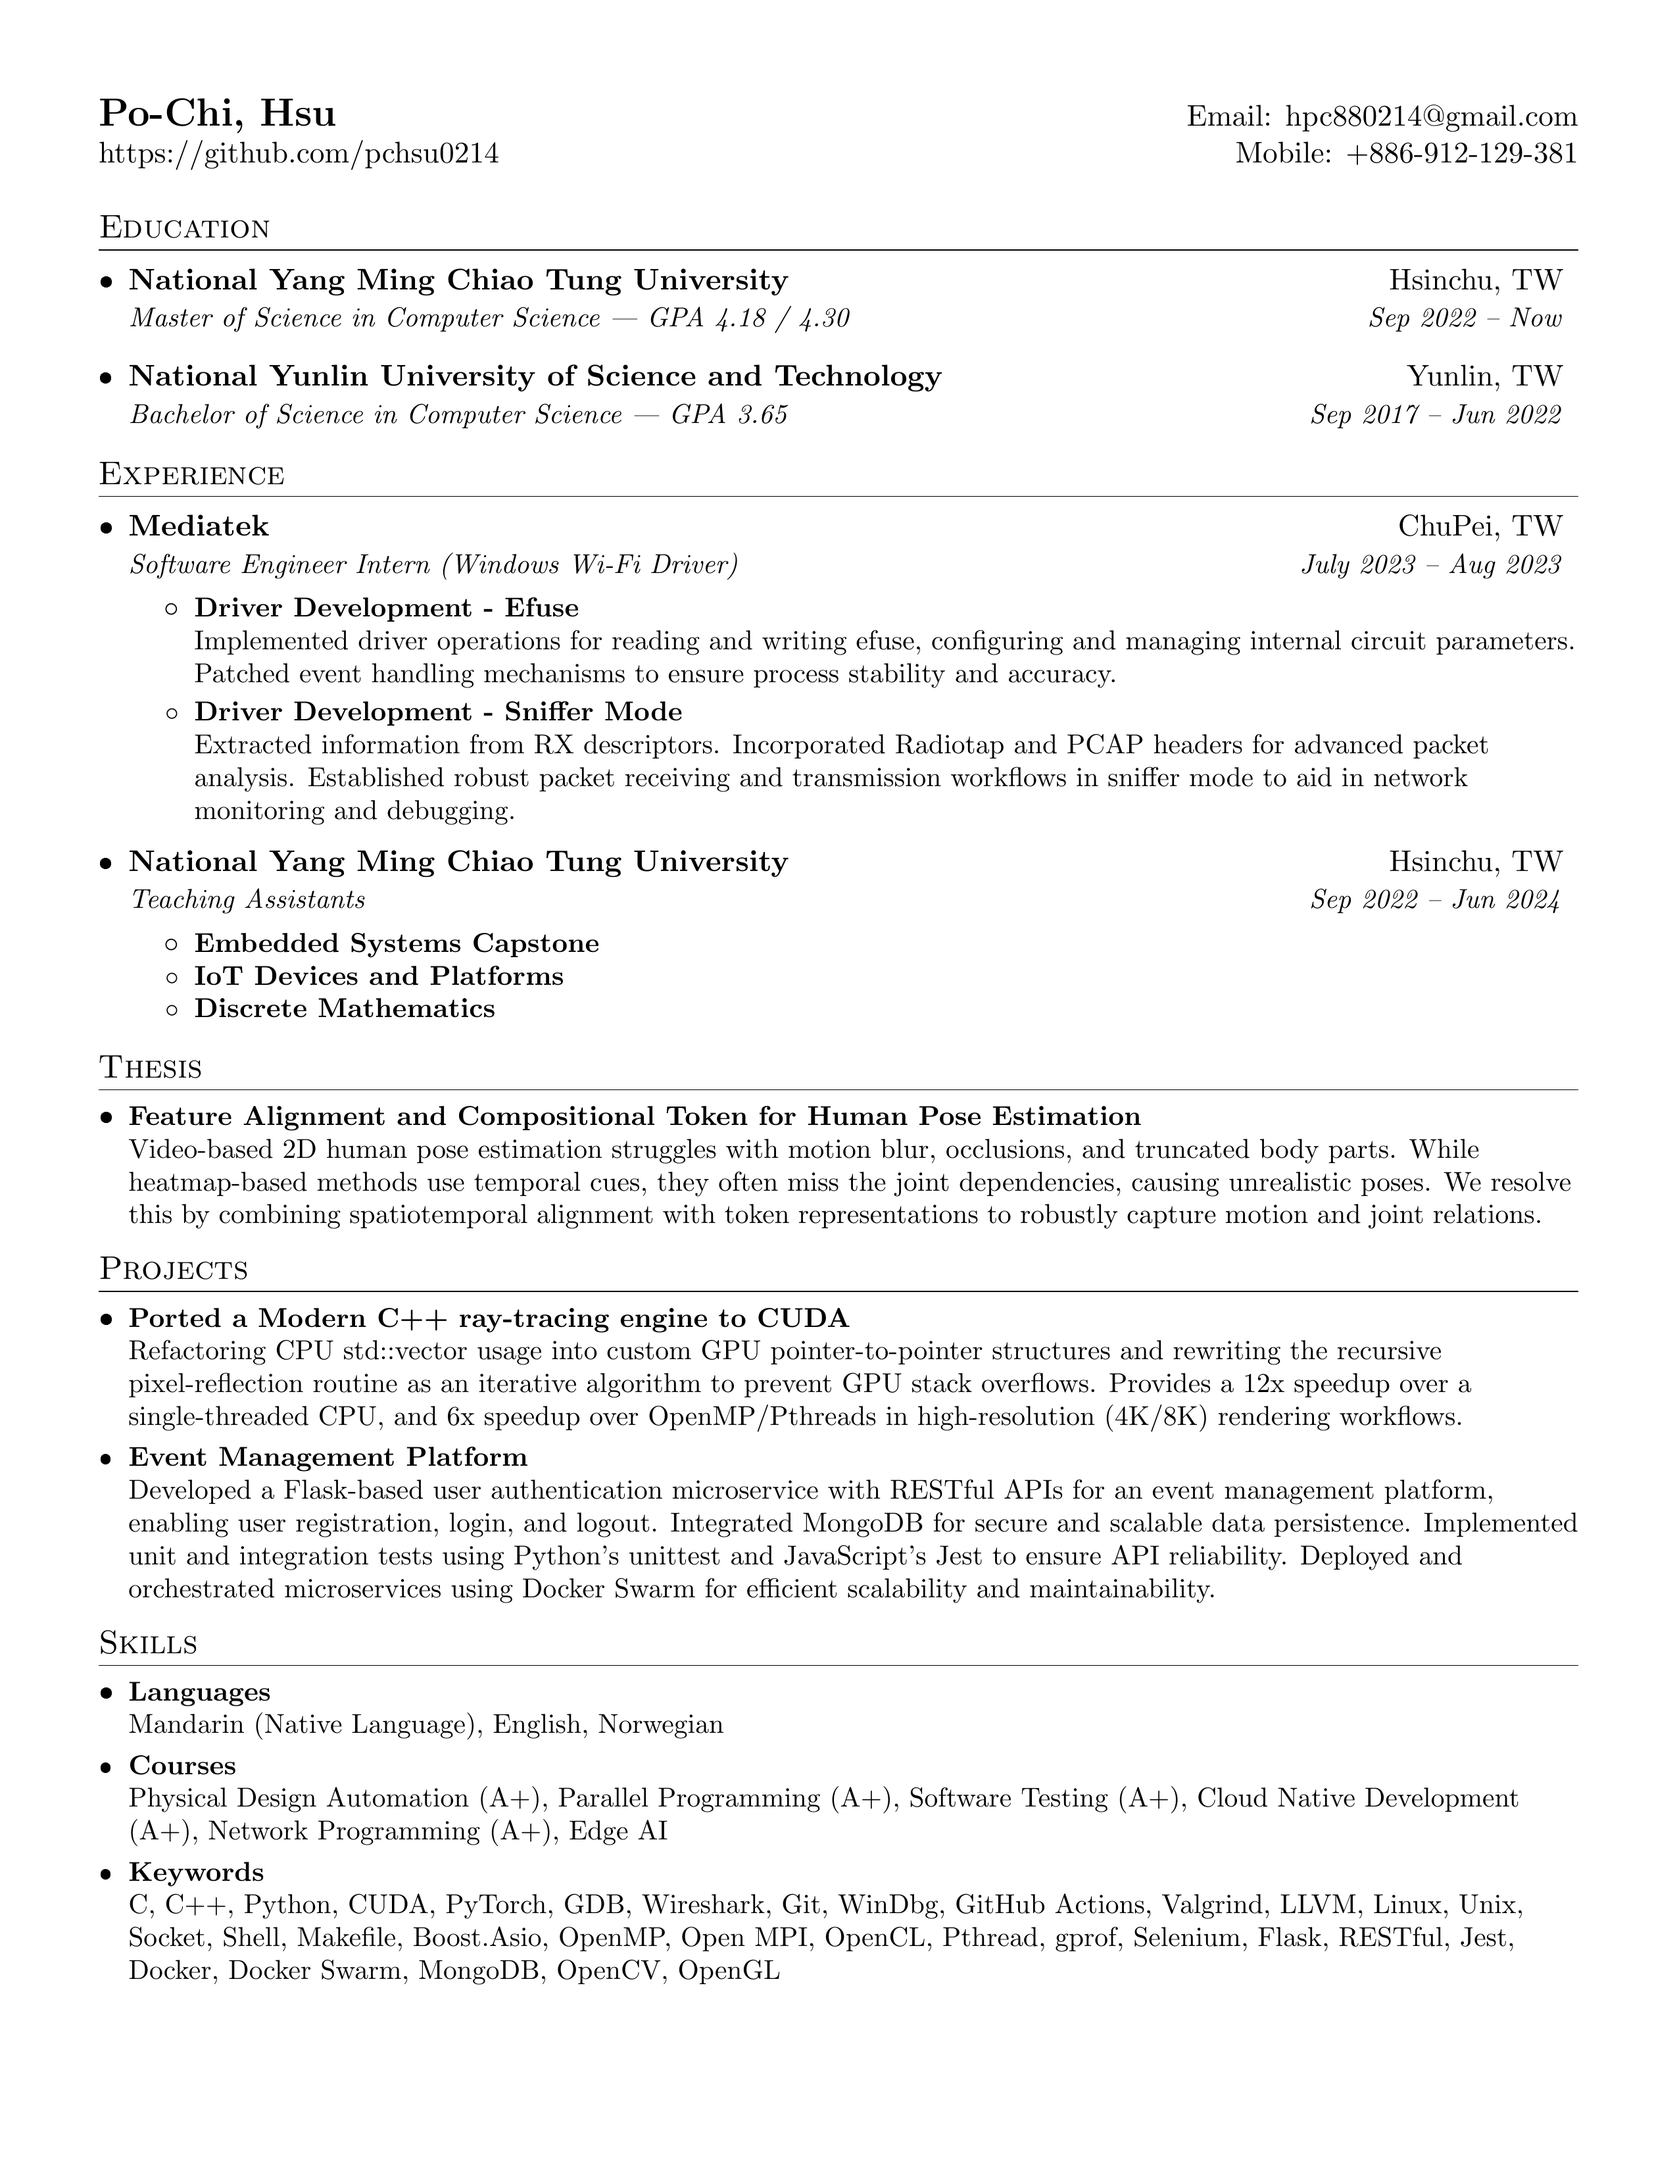
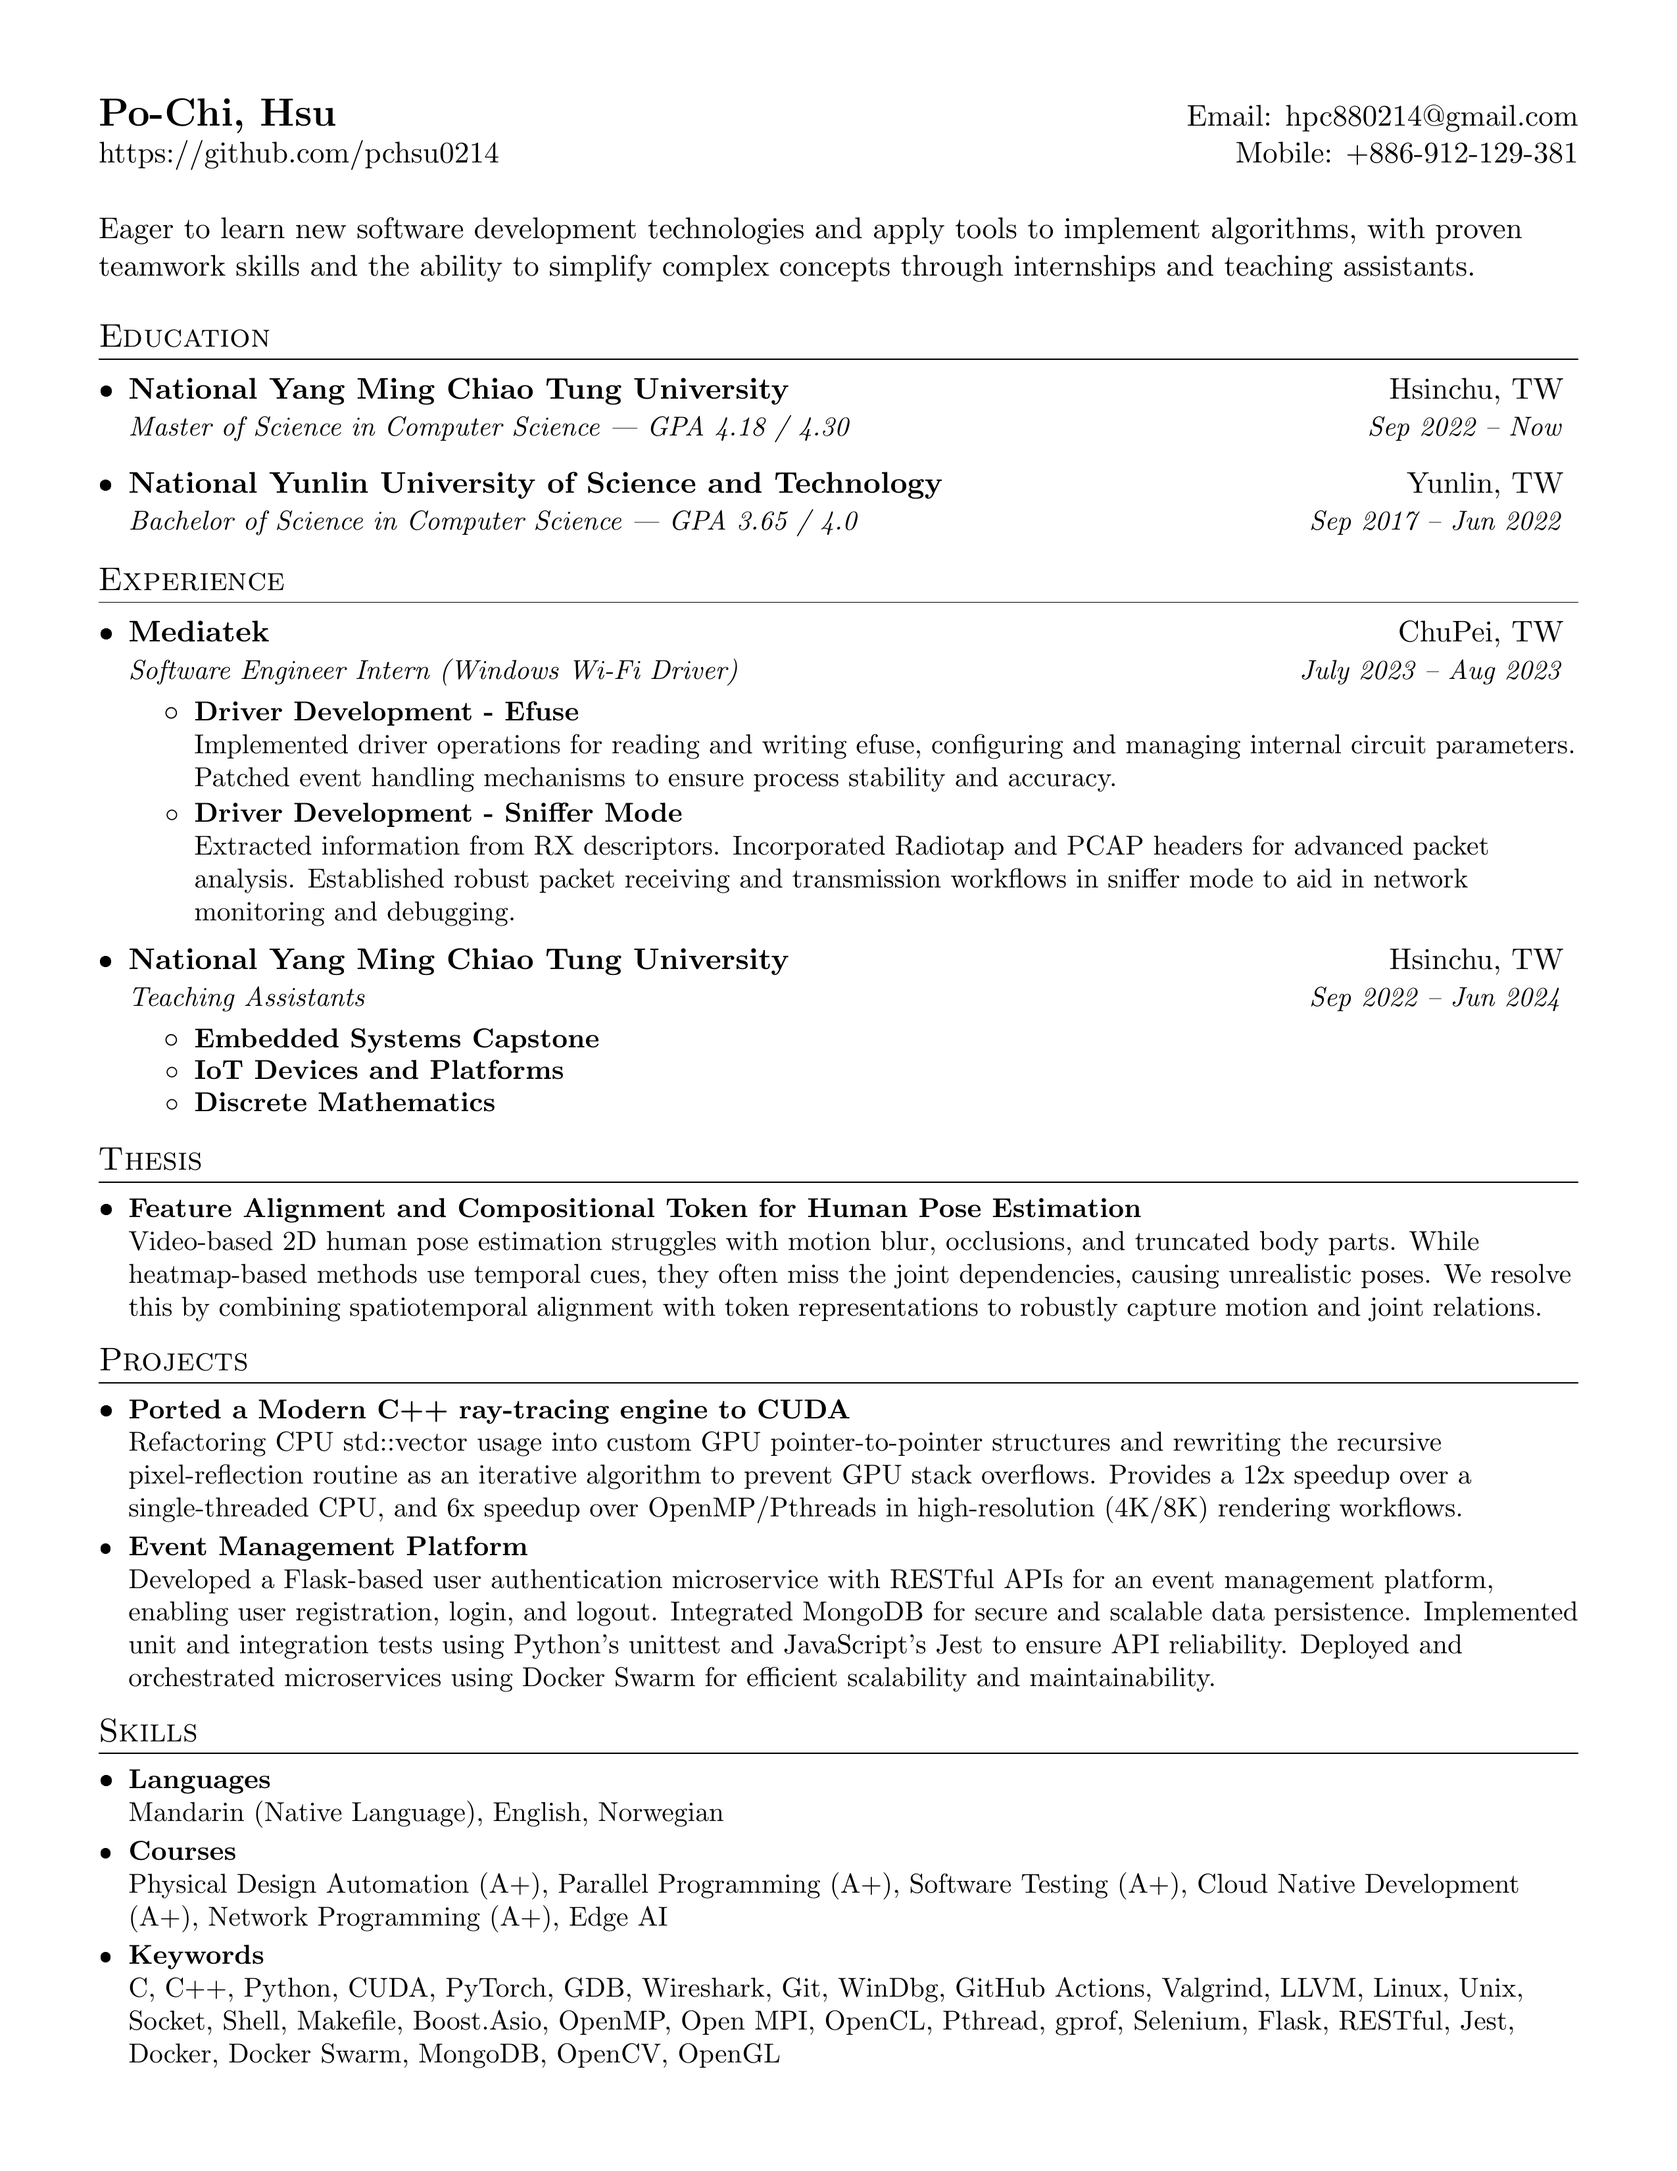
Added Self description

Changed region(s): [[0.062, 0.0936, 0.9294, 0.9364], [0.8055, 0.1873, 0.8365, 0.2185], [0.4337, 0.437, 0.4647, 0.4682]]

diff --git a/hpc.tex b/hpc.tex
@@ -97,6 +97,11 @@
   \href{https://github.com/pchsu0214}{https://github.com/pchsu0214} & Mobile: \href{tel:+886912129381}{+886-912-129-381} \\
 \end{tabular*}
 
+\vspace{0.5em}
+\begin{flushleft}
+Eager to learn new software development technologies and apply tools to implement algorithms, with proven teamwork skills
+and the ability to simplify complex concepts through internships and teaching assistants.
+\end{flushleft}
 
 %-----------EDUCATION-----------------
 \section{Education}
@@ -106,7 +111,7 @@
       {Master of Science in Computer Science | GPA 4.18 / 4.30}{Sep 2022 -- Now}
     \resumeSubheading
       {National Yunlin University of Science and Technology}{Yunlin, TW}
-      {Bachelor of Science in Computer Science | GPA 3.65}{Sep 2017 -- Jun 2022}
+      {Bachelor of Science in Computer Science | GPA 3.65 / 4.0}{Sep 2017 -- Jun 2022}
   \resumeSubHeadingListEnd
 
 
